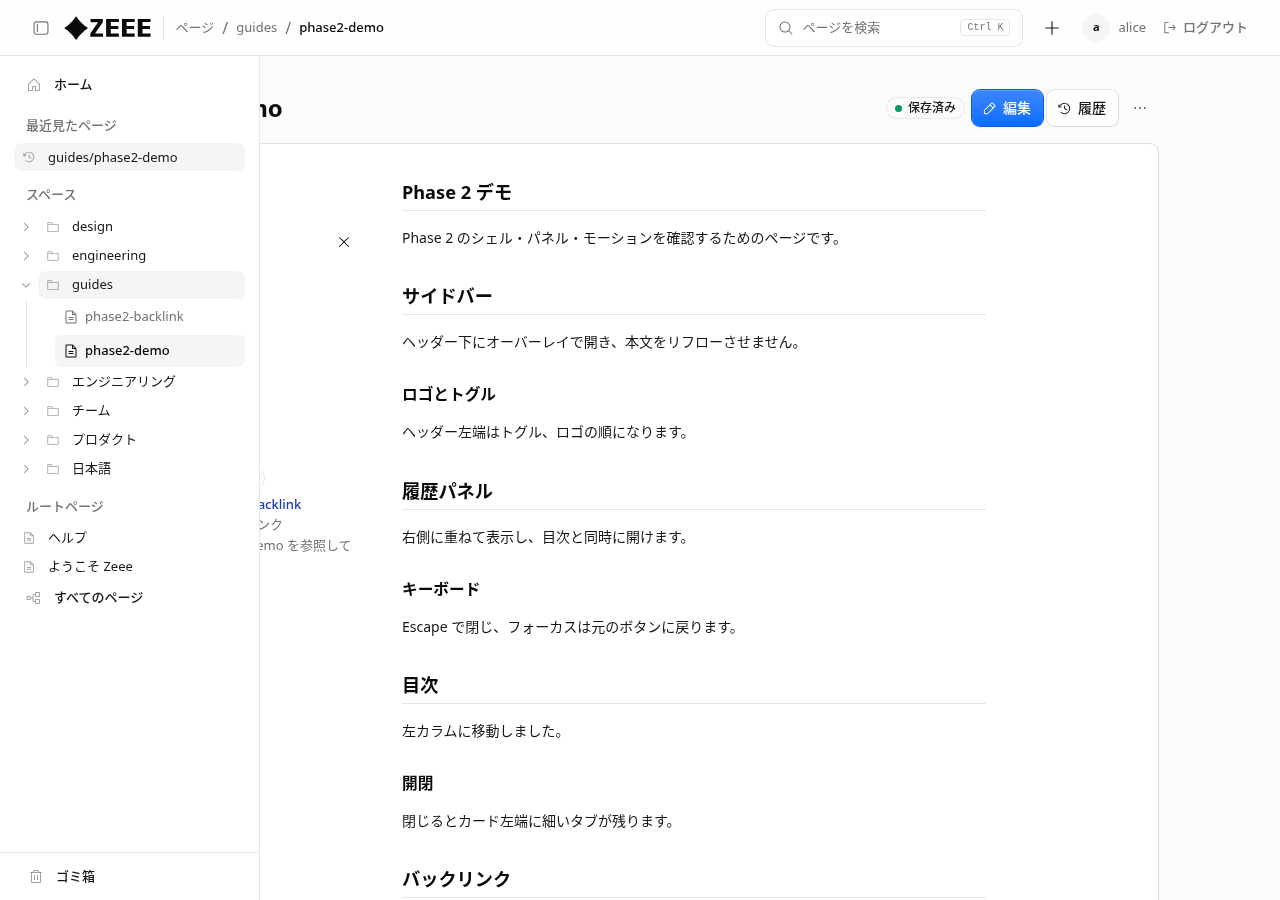
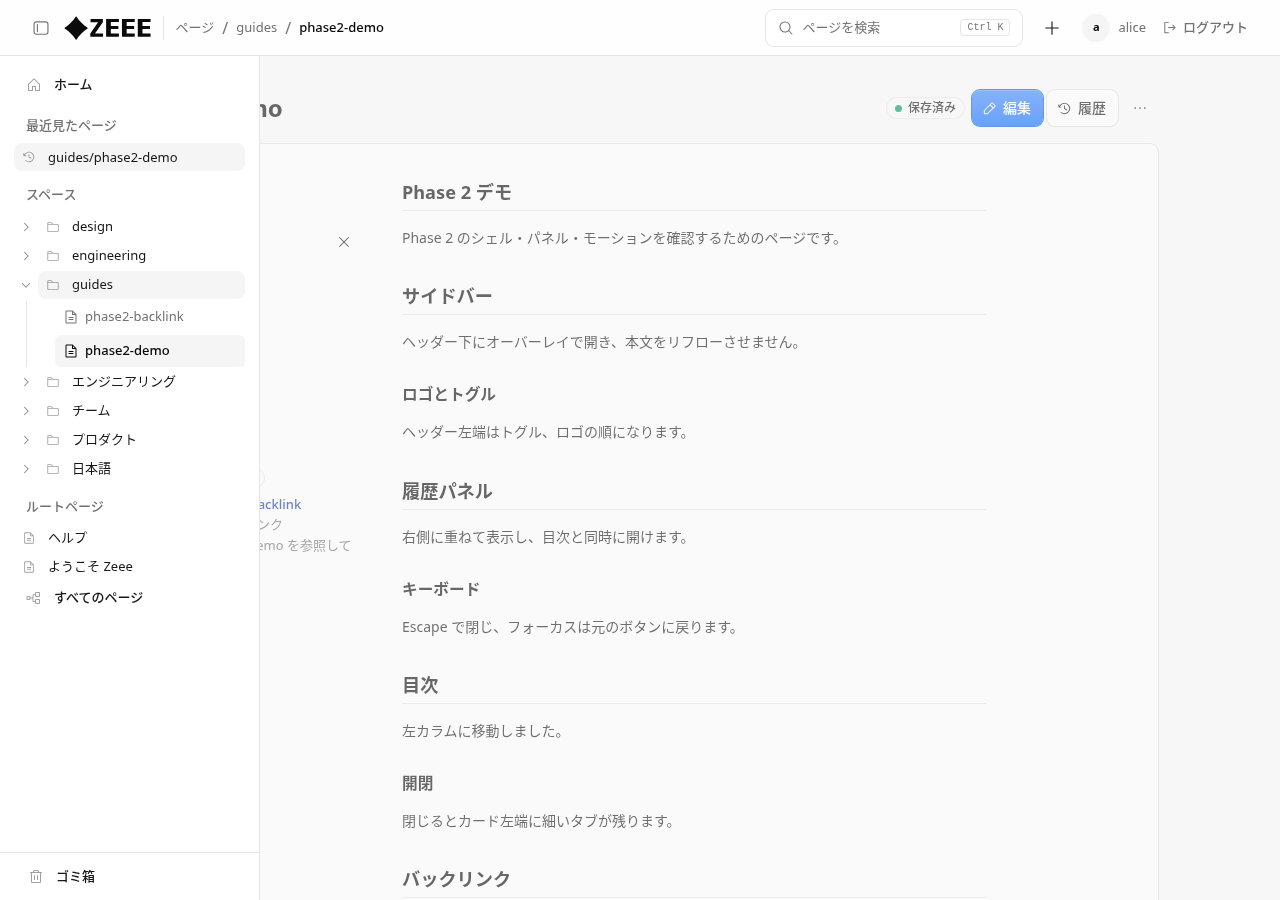
fix: add desktop sidebar backdrop and escape close

diff --git a/src/components/AppShell.tsx b/src/components/AppShell.tsx
@@ -298,118 +298,152 @@ function AppSidebar({
   isTrash,
   isBrowse,
 }: AppSidebarProps) {
-  const { open, isMobile } = useSidebar();
+  const { open, setOpen, isMobile } = useSidebar();
   const rootPages = useMemo(() => listRootPages(pages), [pages]);
 
+  function closeSidebar() {
+    setOpen(false);
+    requestAnimationFrame(() => {
+      document.querySelector<HTMLButtonElement>('header [data-sidebar="trigger"]')?.focus();
+    });
+  }
+
+  useEffect(() => {
+    if (isMobile || !open) return;
+    const handleKeyDown = (event: KeyboardEvent) => {
+      if (event.key !== 'Escape' || event.defaultPrevented) return;
+      const active = document.activeElement;
+      if (
+        active instanceof Element &&
+        active.closest('[role="dialog"][aria-modal="true"], #page-history-panel')
+      ) {
+        return;
+      }
+      event.preventDefault();
+      closeSidebar();
+    };
+    window.addEventListener('keydown', handleKeyDown);
+    return () => window.removeEventListener('keydown', handleKeyDown);
+  }, [isMobile, open]);
+
   return (
-    <Sidebar
-      id="pages-nav"
-      inert={!isMobile && !open ? true : undefined}
-      aria-hidden={!isMobile && !open ? true : undefined}
-    >
-      <Sidebar.Header className="h-14 justify-between px-3 md:hidden">
-        <Brand />
-        <Sidebar.Close className="size-8" aria-label="ページ一覧を閉じる" />
-      </Sidebar.Header>
-
-      <Sidebar.Content>
-        <Sidebar.Group>
-          <Sidebar.Menu>
-            <Sidebar.MenuButton
-              href="/"
-              icon={HouseIcon}
-              active={isHome}
-              aria-current={isHome ? 'page' : undefined}
-            >
-              ホーム
-            </Sidebar.MenuButton>
-          </Sidebar.Menu>
-        </Sidebar.Group>
-
-        {recentPages.length > 0 ? (
-          <Sidebar.Group>
-            <Sidebar.GroupLabel>最近見たページ</Sidebar.GroupLabel>
-            <Sidebar.Menu>
-              {recentPages.map((page) => (
-                <Sidebar.MenuButton
-                  href={`/pages/${page.id}`}
-                  size="sm"
-                  icon={ClockCounterClockwiseIcon}
-                  active={page.id === activePageId}
-                  aria-current={page.id === activePageId ? 'page' : undefined}
-                  key={page.id}
-                >
-                  {page.title}
-                </Sidebar.MenuButton>
-              ))}
-            </Sidebar.Menu>
-          </Sidebar.Group>
-        ) : null}
-
-        <SpaceNav
-          pages={pages}
-          activeSpace={activeSpace}
-          activePageId={activePageId}
-          activeTitle={liveTitle}
-          activeDirectory={activeDirectory}
-          isMobile={isMobile}
+    <>
+      {!isMobile && open ? (
+        <div
+          className="fixed inset-x-0 top-14 bottom-0 z-[15] bg-kumo-recessed/40"
+          aria-hidden="true"
+          onClick={closeSidebar}
         />
+      ) : null}
+      <Sidebar
+        id="pages-nav"
+        inert={!isMobile && !open ? true : undefined}
+        aria-hidden={!isMobile && !open ? true : undefined}
+      >
+        <Sidebar.Header className="h-14 justify-between px-3 md:hidden">
+          <Brand />
+          <Sidebar.Close className="size-8" aria-label="ページ一覧を閉じる" />
+        </Sidebar.Header>
 
-        {rootPages.length > 0 ? (
+        <Sidebar.Content>
           <Sidebar.Group>
-            <Sidebar.GroupLabel>ルートページ</Sidebar.GroupLabel>
             <Sidebar.Menu>
-              {rootPages.map((page) => (
-                <Sidebar.MenuButton
-                  href={`/pages/${page.id}`}
-                  size="sm"
-                  icon={FileTextIcon}
-                  active={page.id === activePageId}
-                  aria-current={page.id === activePageId ? 'page' : undefined}
-                  key={page.id}
-                >
-                  {page.name}
-                </Sidebar.MenuButton>
-              ))}
+              <Sidebar.MenuButton
+                href="/"
+                icon={HouseIcon}
+                active={isHome}
+                aria-current={isHome ? 'page' : undefined}
+              >
+                ホーム
+              </Sidebar.MenuButton>
             </Sidebar.Menu>
           </Sidebar.Group>
-        ) : null}
 
-        <Sidebar.Group>
-          <Sidebar.Menu>
+          {recentPages.length > 0 ? (
+            <Sidebar.Group>
+              <Sidebar.GroupLabel>最近見たページ</Sidebar.GroupLabel>
+              <Sidebar.Menu>
+                {recentPages.map((page) => (
+                  <Sidebar.MenuButton
+                    href={`/pages/${page.id}`}
+                    size="sm"
+                    icon={ClockCounterClockwiseIcon}
+                    active={page.id === activePageId}
+                    aria-current={page.id === activePageId ? 'page' : undefined}
+                    key={page.id}
+                  >
+                    {page.title}
+                  </Sidebar.MenuButton>
+                ))}
+              </Sidebar.Menu>
+            </Sidebar.Group>
+          ) : null}
+
+          <SpaceNav
+            pages={pages}
+            activeSpace={activeSpace}
+            activePageId={activePageId}
+            activeTitle={liveTitle}
+            activeDirectory={activeDirectory}
+            isMobile={isMobile}
+          />
+
+          {rootPages.length > 0 ? (
+            <Sidebar.Group>
+              <Sidebar.GroupLabel>ルートページ</Sidebar.GroupLabel>
+              <Sidebar.Menu>
+                {rootPages.map((page) => (
+                  <Sidebar.MenuButton
+                    href={`/pages/${page.id}`}
+                    size="sm"
+                    icon={FileTextIcon}
+                    active={page.id === activePageId}
+                    aria-current={page.id === activePageId ? 'page' : undefined}
+                    key={page.id}
+                  >
+                    {page.name}
+                  </Sidebar.MenuButton>
+                ))}
+              </Sidebar.Menu>
+            </Sidebar.Group>
+          ) : null}
+
+          <Sidebar.Group>
+            <Sidebar.Menu>
+              <Sidebar.MenuButton
+                href="/browse"
+                icon={TreeStructureIcon}
+                active={isBrowse}
+                aria-current={isBrowse ? 'page' : undefined}
+              >
+                すべてのページ
+              </Sidebar.MenuButton>
+            </Sidebar.Menu>
+          </Sidebar.Group>
+
+          {pages.length === 0 ? (
+            <div className="px-3 py-3">
+              <Text variant="secondary" size="sm">
+                まだページがありません。
+              </Text>
+            </div>
+          ) : null}
+        </Sidebar.Content>
+
+        <Sidebar.Footer>
+          <Sidebar.Menu className="w-full">
             <Sidebar.MenuButton
-              href="/browse"
-              icon={TreeStructureIcon}
-              active={isBrowse}
-              aria-current={isBrowse ? 'page' : undefined}
+              href="/trash"
+              icon={TrashIcon}
+              active={isTrash}
+              aria-current={isTrash ? 'page' : undefined}
             >
-              すべてのページ
+              ゴミ箱
             </Sidebar.MenuButton>
           </Sidebar.Menu>
-        </Sidebar.Group>
-
-        {pages.length === 0 ? (
-          <div className="px-3 py-3">
-            <Text variant="secondary" size="sm">
-              まだページがありません。
-            </Text>
-          </div>
-        ) : null}
-      </Sidebar.Content>
-
-      <Sidebar.Footer>
-        <Sidebar.Menu className="w-full">
-          <Sidebar.MenuButton
-            href="/trash"
-            icon={TrashIcon}
-            active={isTrash}
-            aria-current={isTrash ? 'page' : undefined}
-          >
-            ゴミ箱
-          </Sidebar.MenuButton>
-        </Sidebar.Menu>
-      </Sidebar.Footer>
-    </Sidebar>
+        </Sidebar.Footer>
+      </Sidebar>
+    </>
   );
 }
 
